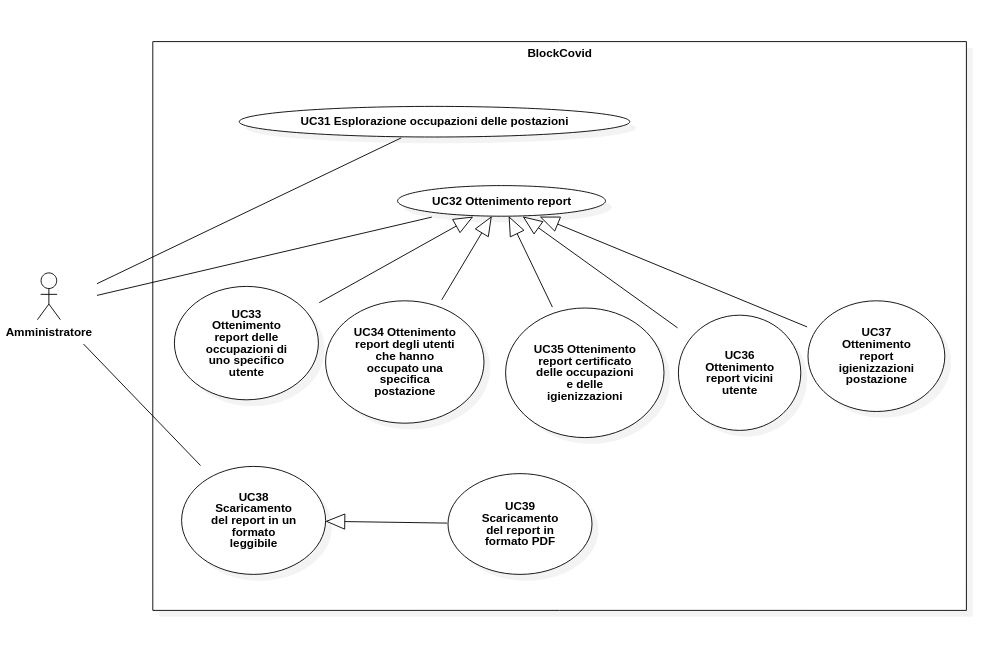
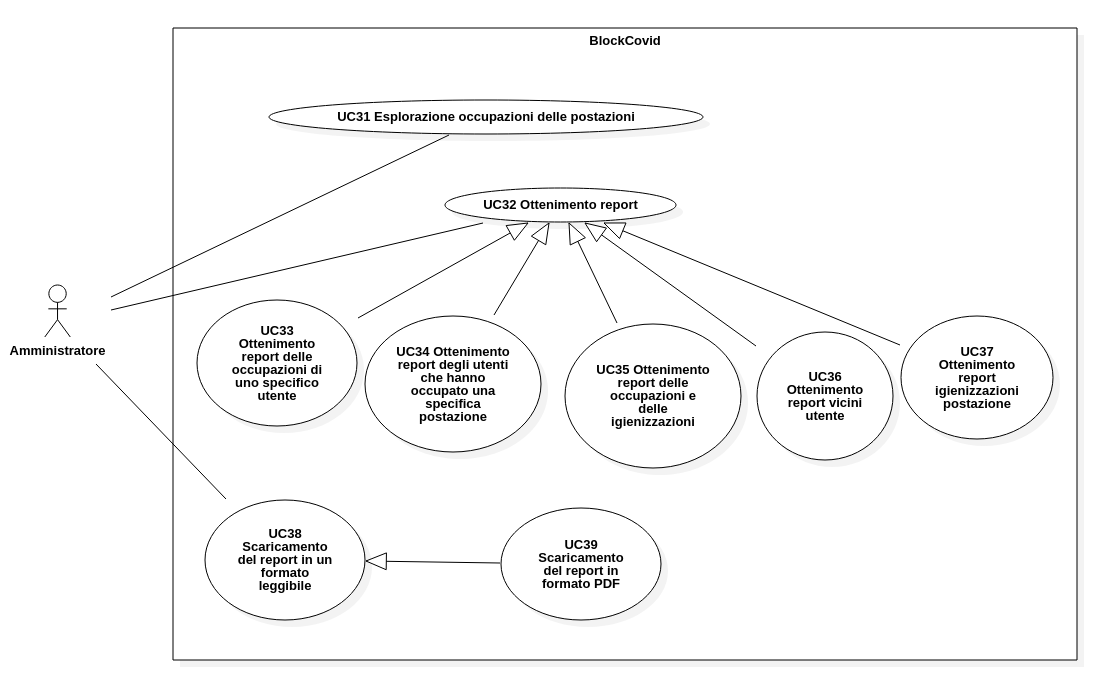
correzione casi d'uso

diff --git a/esterni/AnalisiDeiRequisiti/res/sections/casiUso.tex b/esterni/AnalisiDeiRequisiti/res/sections/casiUso.tex
@@ -661,8 +661,8 @@ In questa sezione sono riportati tutti i casi d'uso individuati, ordinati per at
 \begin{figure}[H]
 	\centering
 	\includegraphics[width=18cm]{res/images/UC31-32-33-34-35-36-37-38-39.png}
-	\caption{Esplorazione occupazioni delle postazioni}
-	\label{fig:Esplorazione occupazioni delle postazioni}
+	\caption{Esplorazione occupazioni delle postazioni e report}
+	\label{fig:Esplorazione occupazioni delle postazioni e report}
 \end{figure}
 \begin{itemize}
 	\item\textbf{Attori Primari:} 
@@ -747,7 +747,7 @@ In questa sezione sono riportati tutti i casi d'uso individuati, ordinati per at
 	\item\textbf{Attori Primari:} 
 	amministratore.
 	\item\textbf{Descrizione:} 
-	l'amministratore ottiene un report certificato delle occupazioni e delle igienizzazioni avvenute in un determinato periodo.
+	l'amministratore ottiene un report delle occupazioni e delle igienizzazioni avvenute in un determinato periodo.
 	\item\textbf{Scenario principale:} 
 	\begin{enumerate}
 		\item l'amministratore inserisce le date di inizio e fine;
@@ -1395,8 +1395,8 @@ In questa sezione sono riportati tutti i casi d'uso individuati, ordinati per at
 \begin{figure}[H]
 	\centering
 	\includegraphics[width=15cm]{res/images/UC71-72.png}
-	\caption{Certificazione igienizzazioni e occupazioni}
-	\label{fig:Certificazione igienizzazioni e occupazioni}
+	\caption{Transazioni su Ethereum}
+	\label{fig:Transazioni su Ethereum}
 \end{figure}
 \begin{itemize}
 	\item\textbf{Attori Primari:} Amministratore.
